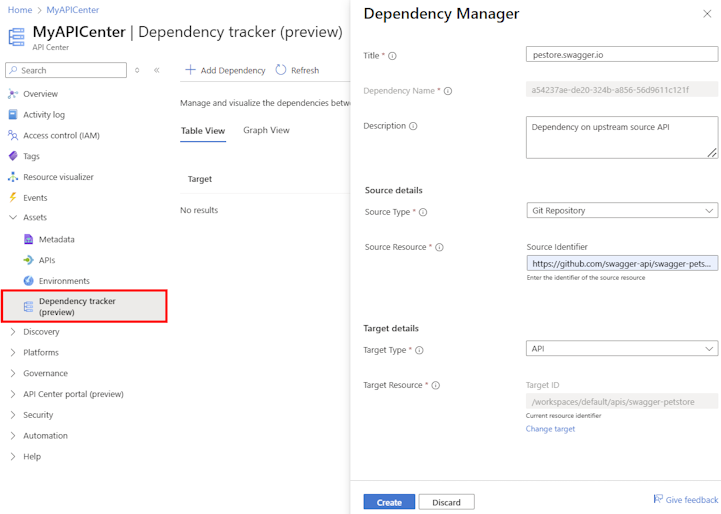
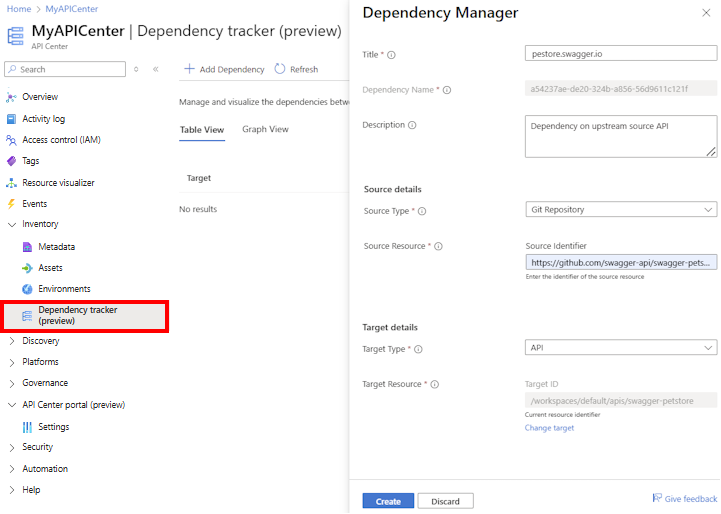
dependency tracker

diff --git a/articles/api-center/track-resource-dependencies.md b/articles/api-center/track-resource-dependencies.md
@@ -3,7 +3,7 @@ title: Track API Resource Dependencies - Azure API Center
 description: Learn how to track dependencies between APIs and related resources in your Azure API center.
 ms.service: azure-api-center
 ms.topic: how-to
-ms.date: 08/28/2025
+ms.date: 02/24/2026
 
 
 ms.custom: 
@@ -37,7 +37,7 @@ Use the dependency tracker in the Azure portal to add a dependency.
 To add a dependency:
 
 1. In the [Azure portal](https://portal.azure.com), navigate to your API center.
-1. In the left menu, under **Assets**, select **Dependency tracker (preview)**.
+1. In the left menu, under **Inventory**, select **Dependency tracker (preview)**.
 1. Select **+ Add Dependency**.
 1. In the **Dependency Manager** window, enter a **Title** and optionally a **Description** of the dependency.
 1. In **Source details**, select a **Source Type** (for example, an API or a related resource). Depending on the type, enter or select identifying information such as a name or ID.
@@ -54,7 +54,7 @@ API Center provides a default table view that lists dependencies, and a graphica
 
 To see a graphical view:
 
-1. In the left menu, under **Assets**, select **Dependency tracker (preview)**.
+1. In the left menu, under **Inventory**, select **Dependency tracker (preview)**.
 1. Select the **Graph View** tab.
 
 In the graphical view, select the box representing any API center resource to see its details.
